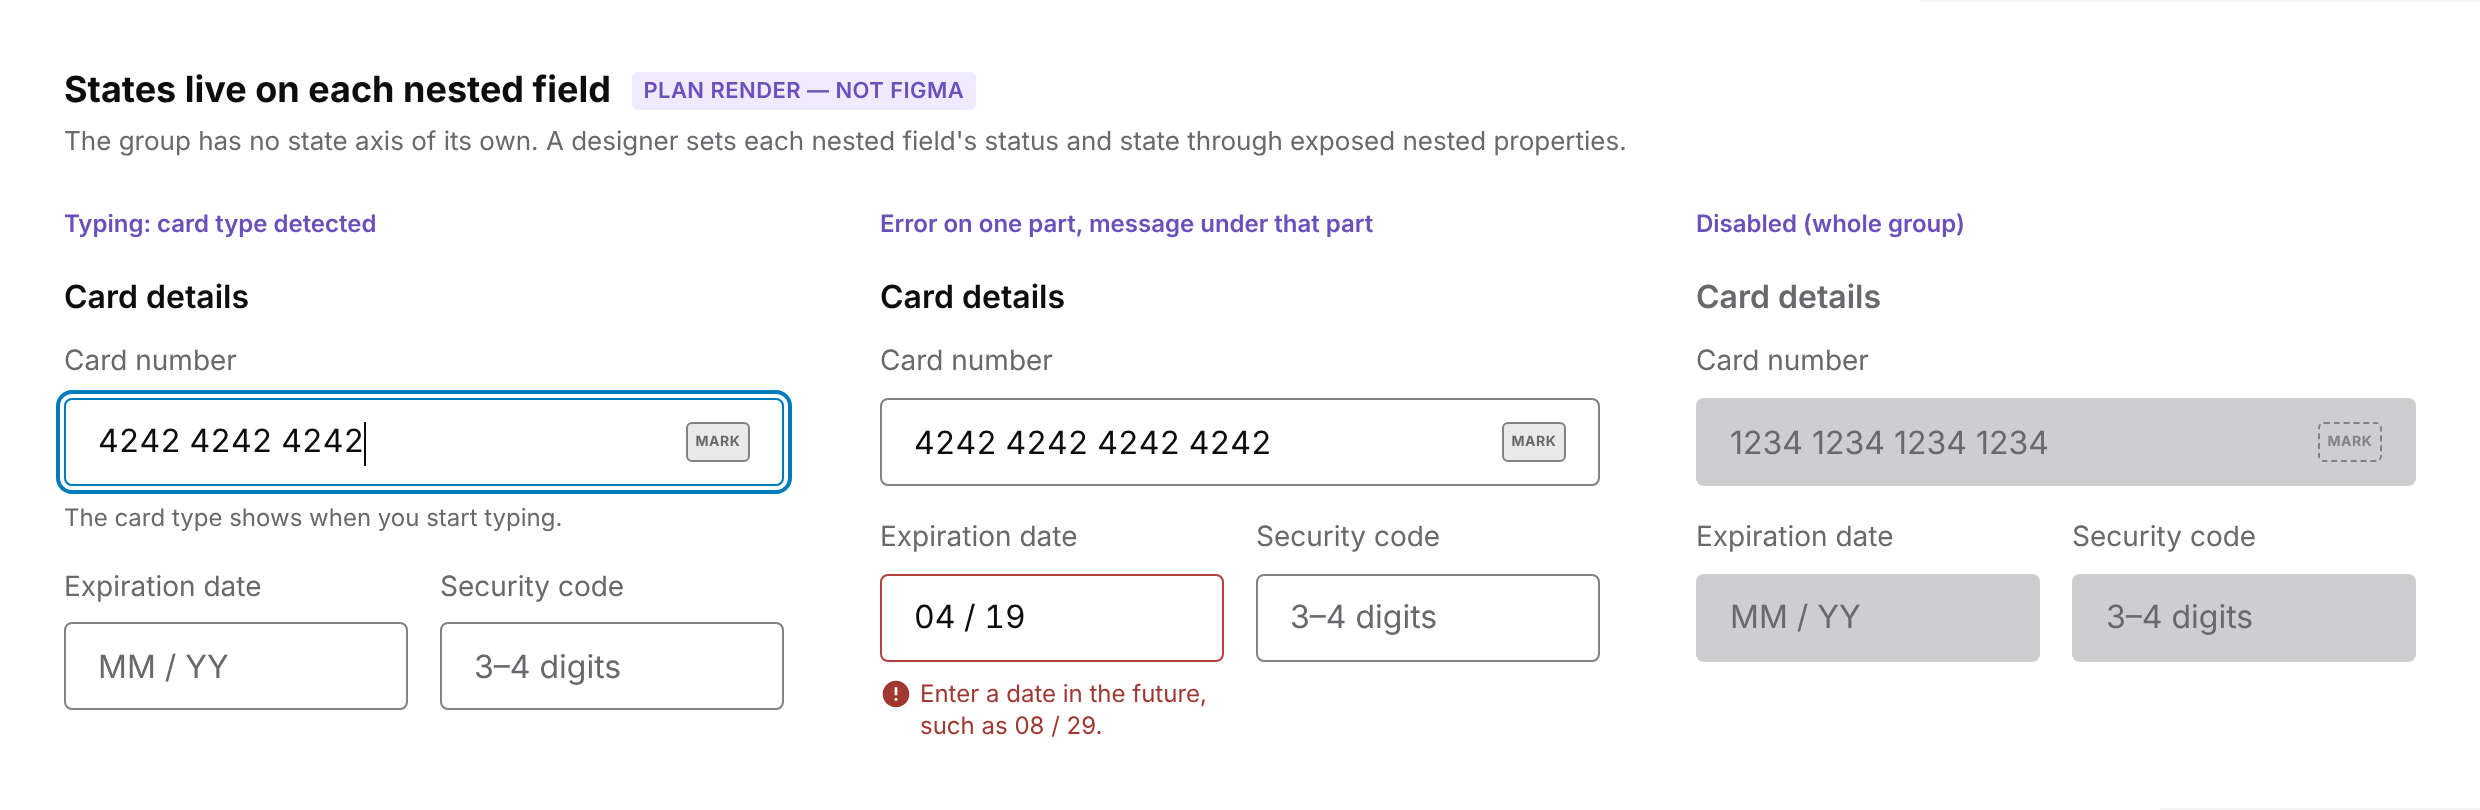
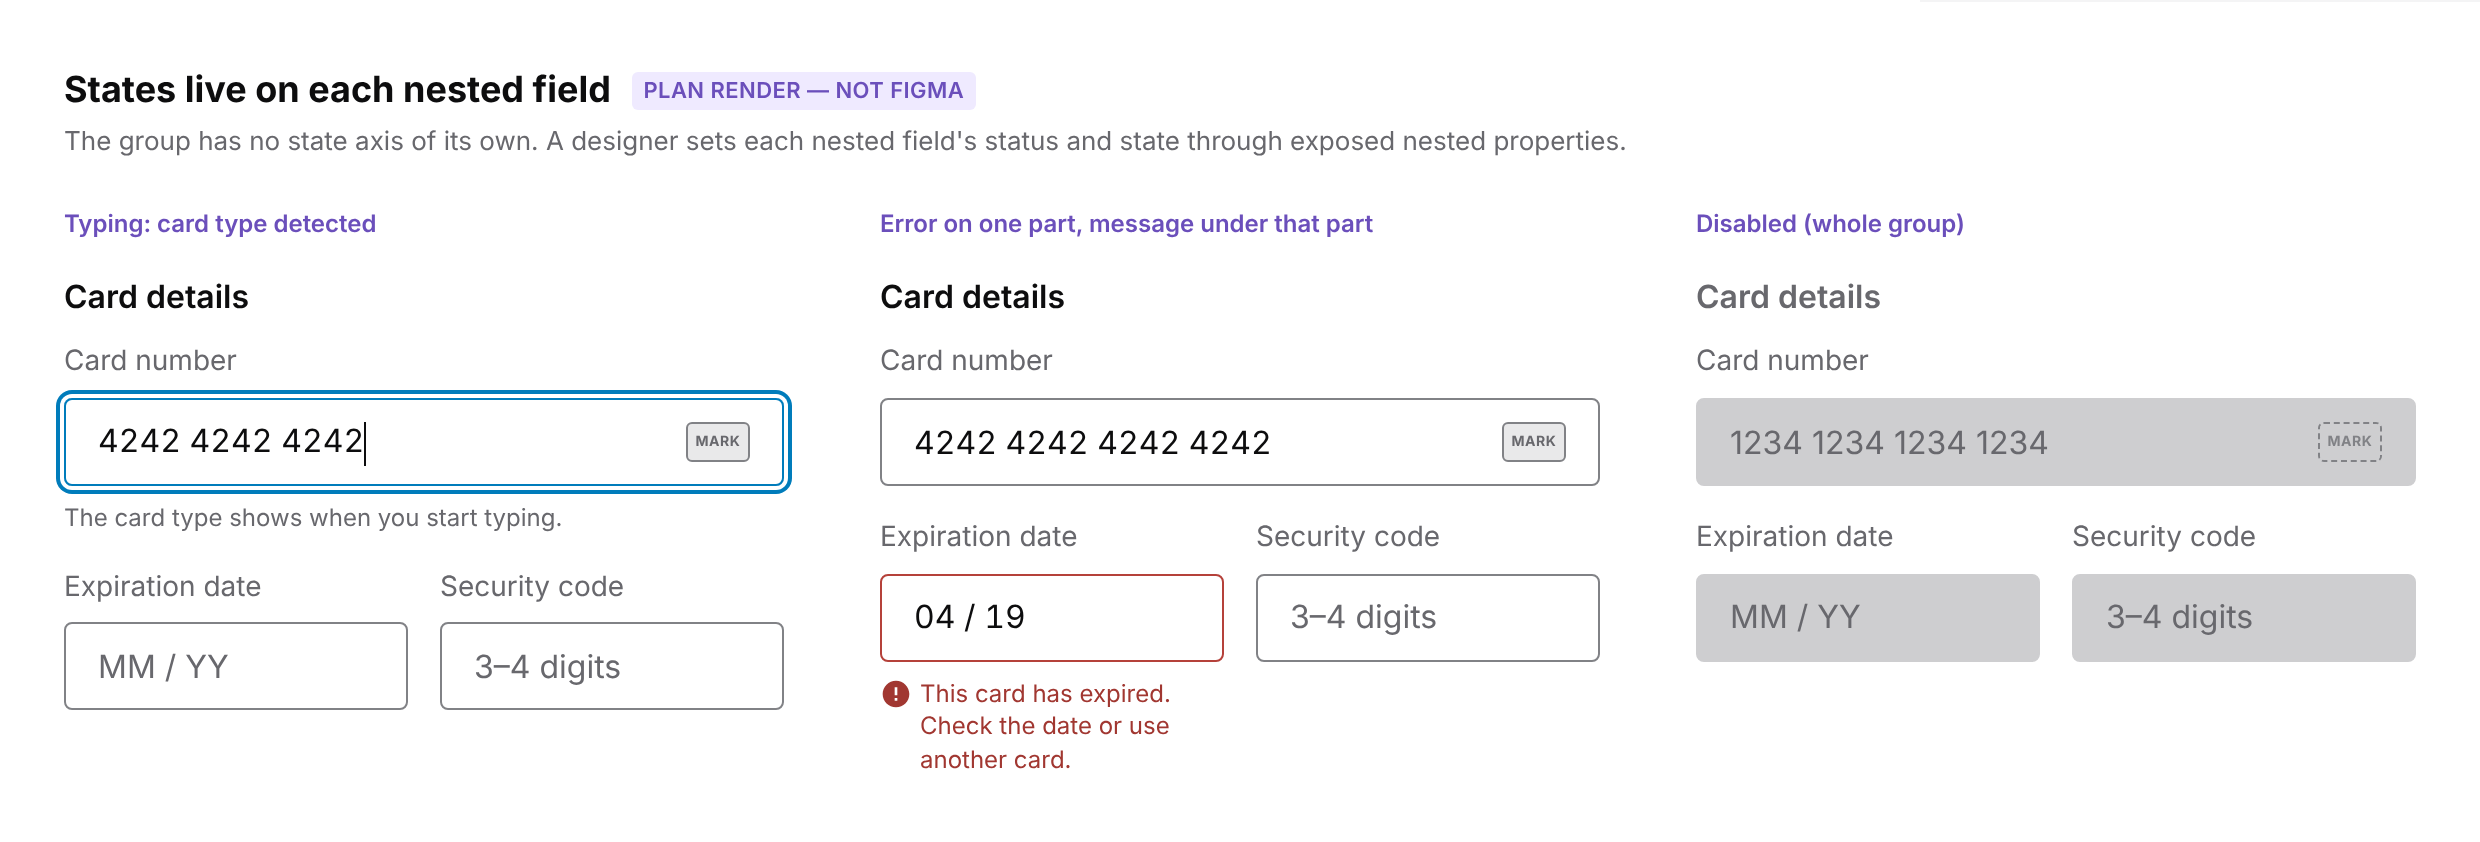
Payment field proposal: render copy matches the drafted wording (#2429)
Claude-Session: https://claude.ai/code/session_01XJ9jGMeY8AATw6kLq62dDo

diff --git a/docs/proposals/payment-field/renders.html b/docs/proposals/payment-field/renders.html
@@ -116,7 +116,7 @@
           </div>
         </div>
         <div class="tf">
-          <div class="lbl">ZIP or postal code</div>
+          <div class="lbl">Postal code</div>
           <div class="ctl"><span class="ph"></span></div>
         </div>
       </fieldset>
@@ -172,7 +172,7 @@
         </div>
         <div class="pair">
           <div class="tf err"><div class="lbl">Expiration date</div><div class="ctl"><span class="val">04 / 19</span></div>
-            <div class="msg"><svg class="info" viewBox="0 0 24 24" fill="var(--text-danger)"><path d="M12 22C6.477 22 2 17.523 2 12S6.477 2 12 2s10 4.477 10 10-4.477 10-10 10Zm-1-7v2h2v-2h-2Zm0-8v6h2V7h-2Z"/></svg>Enter a date in the future, such as 08 / 29.</div></div>
+            <div class="msg"><svg class="info" viewBox="0 0 24 24" fill="var(--text-danger)"><path d="M12 22C6.477 22 2 17.523 2 12S6.477 2 12 2s10 4.477 10 10-4.477 10-10 10Zm-1-7v2h2v-2h-2Zm0-8v6h2V7h-2Z"/></svg>This card has expired. Check the date or use another card.</div></div>
           <div class="tf"><div class="lbl">Security code</div><div class="ctl"><span class="ph">3–4 digits</span></div></div>
         </div>
       </fieldset>
@@ -205,7 +205,7 @@
           <div class="tf"><div class="lbl">Expiration date</div><div class="ctl"><span class="ph">MM / YY</span></div></div>
           <div class="tf"><div class="lbl">Security code</div><div class="ctl"><span class="ph">3–4 digits</span></div></div>
         </div>
-        <div class="tf"><div class="lbl">ZIP or postal code</div><div class="ctl"></div></div>
+        <div class="tf"><div class="lbl">Postal code</div><div class="ctl"></div></div>
       </fieldset>
     </div>
     <div class="col">
@@ -217,7 +217,7 @@
           <div class="tf"><div class="lbl">Expiration date</div><div class="ctl"><span class="ph">MM / YY</span></div></div>
           <div class="tf"><div class="lbl">Security code</div><div class="ctl"><span class="ph">3–4</span></div></div>
         </div>
-        <div class="pair"><div class="tf" style="max-width:172px"><div class="lbl">ZIP or postal code</div><div class="ctl"></div></div></div>
+        <div class="pair"><div class="tf" style="max-width:172px"><div class="lbl">Postal code</div><div class="ctl"></div></div></div>
       </fieldset>
     </div>
   </div>
@@ -254,7 +254,7 @@
       </div>
       <div class="tf err" style="margin-top:12px"><div class="lbl">Card</div>
         <div class="combo" style="border-color:var(--border-danger)"><span class="num"><span class="mark solid">MARK</span><span class="val">4242 4242 4242 4242</span></span><span class="val">04 / 19</span><span class="seg">CVC</span></div>
-        <div class="msg">Your card's expiration date is in the past.</div>
+        <div class="msg">This card has expired. Check the date or use another card.</div>
       </div>
     </div>
   </div>
